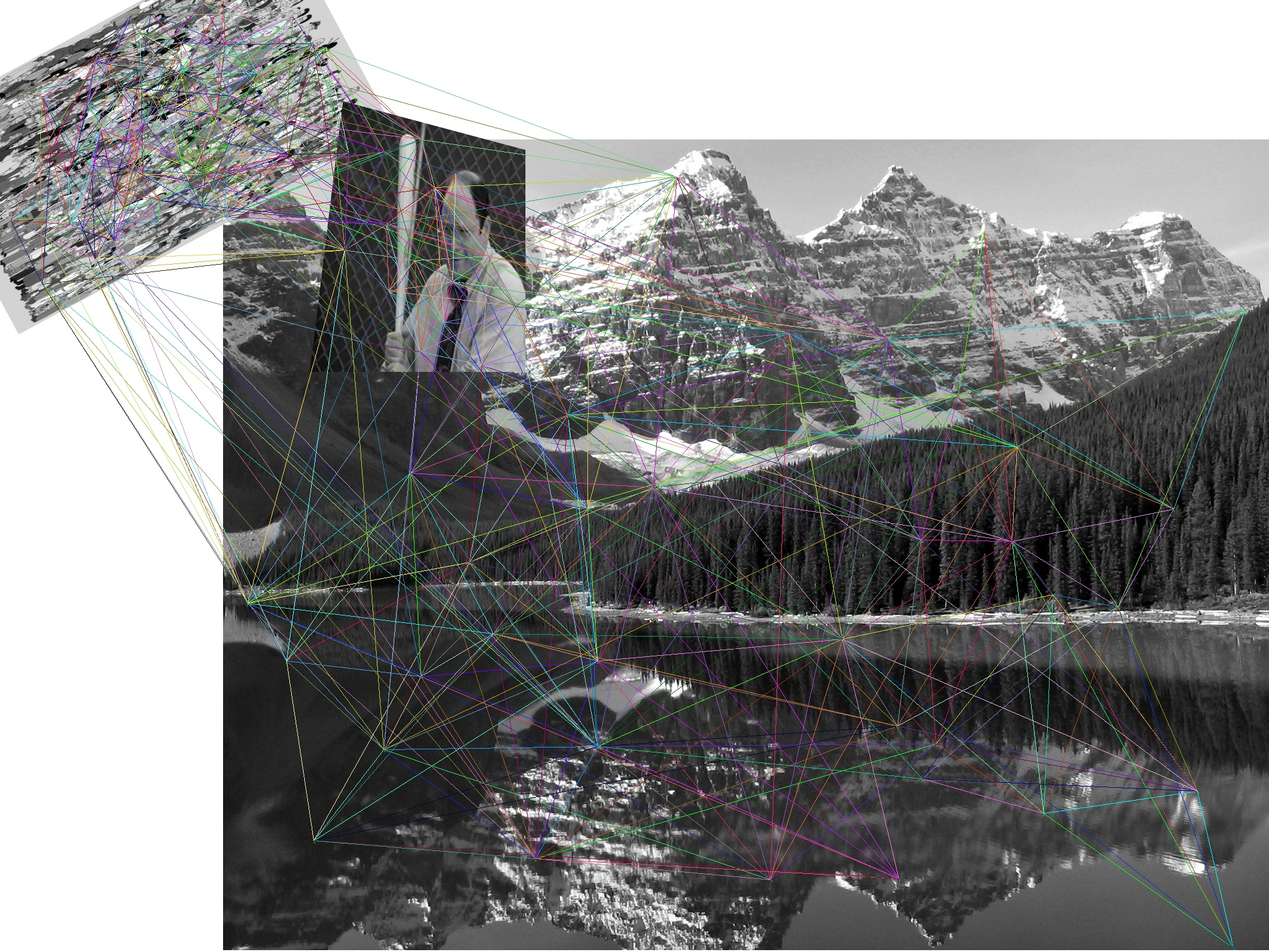
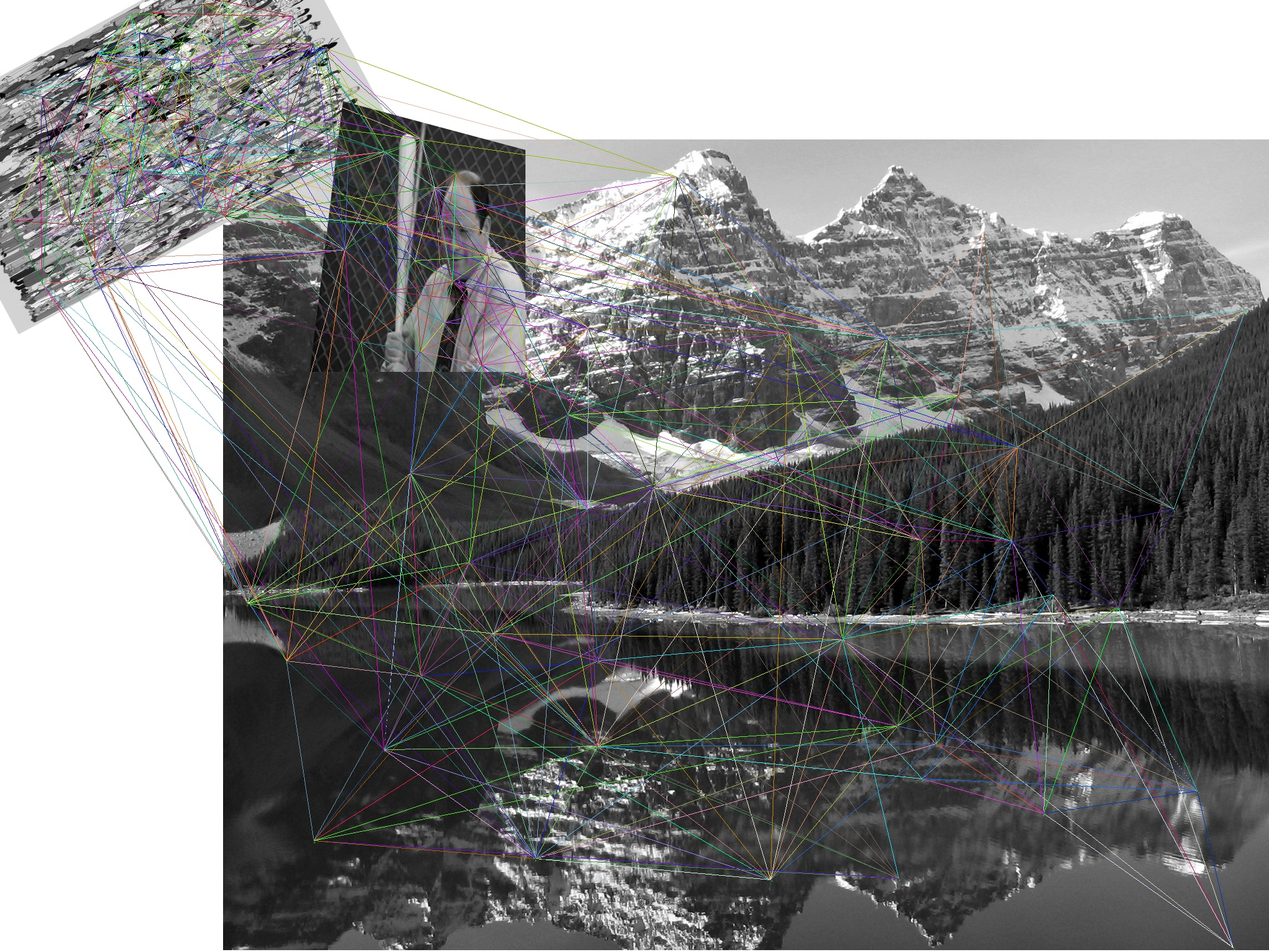
we can now compare matches showmatchs()

diff --git a/testForTheGetMinimum.py b/testForTheGetMinimum.py
@@ -10,6 +10,7 @@ from PIL import Image
 import imagehash as ih
 from random import randint
 import redis
+import json
 #######################################################################
 
 #SHAPES
@@ -94,6 +95,15 @@ def area(a, b, c):
 	# calculate the area
 	area = (s*(s-a)*(s-b)*(s-c)) ** 0.5
 	return area
+
+def getArea(tri):
+	pt1 = tri[0]
+	pt2 = tri[1]
+	pt3 = tri[2]
+	dist1 = dist(pt1, pt2)
+	dist2 = dist(pt2, pt3)
+	dist3 = dist(pt3, pt1)
+	return	area(dist1, dist2, dist3)
 
 def isGoodFrag(tri):
 	pt1 = tri[0]
@@ -278,8 +288,25 @@ def weNeedToAdd180(rot, shape):
 	else: 
 		return False
 
+def getTheJsonString(imgName, hash1, area, tri):
+	xCoords = []
+	yCoords = []
+	for coord in tri:
+		xCoords.append(str(coord[0]))
+		yCoords.append(str(coord[1]))
+
+	tempString =  '{ "imageName" : "'+imgName+\
+				'", "hash":"' + str(hash1) + \
+				'", "area":'+ str(area) + \
+				', "xcoords":"'+json.dumps(xCoords).replace('"', "'")+\
+				'", "ycoords":"'+json.dumps(yCoords).replace('"', "'")+\
+				'" }'
+
+	return tempString 
 
 def handleFragment(shape, frag, rangeInput, imgName):
+	inShape = shape
+	area = getArea(inShape)
 	##########draw the frag with lines########
 	##########################################
 		
@@ -300,6 +327,7 @@ def handleFragment(shape, frag, rangeInput, imgName):
 	########################################
 	backUpRet = ret
 	backUpShape = resShape
+	finalfinalret = []
 	for minRot in minRots:
 		ret = backUpRet
 		resShape = backUpShape
@@ -315,25 +343,127 @@ def handleFragment(shape, frag, rangeInput, imgName):
 		#print tempName1 + " : " + str(minRot)
 		cv2.imwrite("temp2.jpg", newRet);
 		hash1 = ih.average_hash(Image.open('temp2.jpg'))
-		print hash1
+		final3 = getTheJsonString(imgName, hash1, area, inShape)
+		finalfinalret.append( (str(hash1),final3, inShape) )
 		#ret = d.drawShapeWithAllTheDistances_withBaseImage(ret, resShape, (255,0,0))
 		#cv2.imwrite("./output/debug_output_"+ imgName +str(minRot)+".jpg", ret);
+	return finalfinalret
 
 def newTest2(imgName):
 	rangeInput = [(0.,359.0), (1.,8.)]
 	img = cv2.imread("./input/"+imgName+".jpg")
 	
+	finalret = []
 	for shape, ret in getTheFragments(imgName):
-		handleFragment(shape, ret, rangeInput, imgName)
-	######################################### 	
+		finalret.append( handleFragment(shape, ret, rangeInput, imgName) )
 
+	return finalret
+	######################################### 	
 
 def testingGettingTheLocalMinimum():
 	pass
+
+
+def fill(imgName):
+	values = newTest2(imgName)
+
+	r = redis.StrictRedis(host='localhost', port=6379, db=0)
+
+	for val in values:
+		r.set(val[0][0], val[0][1])
+
+	print "added: "+ str(len(values))
+
+def match(imgName):
+	final = match_without_print(imgName)
+	print "found: "+ str(len(final))
+	for val in final:
+		print val
+
+def getTheJsonObj(thehash, redisVar):
+	tempString = redisVar.get(thehash)
+	if tempString == None:
+		return None
+
+	tempString = tempString.replace("'", "\\\"")
+	jsonObj = json.loads(tempString)
+	xCoords = jsonObj['xcoords']
+	yCoords = jsonObj['ycoords']
+
+	xCoords = json.loads(xCoords)
+	yCoords = json.loads(yCoords)
+
+	finCoords = []
+	for i in range(len(xCoords)):
+		c = (int(xCoords[i]), int(yCoords[i]))
+		finCoords.append( c )
+
+	jsonObj['coords'] = finCoords
+
+	return jsonObj
+
+def match_without_print(imgName):
+	inputImageValues = newTest2(imgName)
+
+	r = redis.StrictRedis(host='localhost', port=6379, db=0)
+	
+	matchedValues = []
+	for val in inputImageValues:
+		theJsonObj = getTheJsonObj(val[0][0], r)
+		if theJsonObj != None:
+			matchedValues.append( theJsonObj)
+
+	return matchedValues, inputImageValues
+
+def showMatches(imgName):
+	matchedValues, inputImageValues = match_without_print(imgName)
+
+	print inputImageValues[0][0][2]
+
+	img = cv2.imread("./input/"+imgName+".jpg")
+	#take the first image name and load it 
+	matchedImg = cv2.imread("./input/"+matchedValues[0]['imageName']+".jpg")
+	for matchedObj in matchedValues:
+		#print "obj"
+		#print obj
+		matchedCoords = matchedObj['coords']
+		col = (randint(0,255),randint(0,255),randint(0,255))
+		d.drawLinesColourAlsoWidth(matchedCoords, matchedImg, col, 1)
+		cv2.imshow('input', img)
+		cv2.imshow('found', matchedImg)
+		cv2.waitKey(0)
+
+def showMatches2(imgName):
+	inputImageValues = newTest2(imgName)
+
+	r = redis.StrictRedis(host='localhost', port=6379, db=0)
+	inImg = cv2.imread("./input/"+imgName+".jpg")
+
+	#take the first image name and load it 
+	inhash = inputImageValues[0][0][0]
+	theMatchedJsonObj_g = getTheJsonObj(inhash, r)
+	matchedImg = cv2.imread("./input/"+theMatchedJsonObj_g['imageName']+".jpg")
+
+	for inputImageVal in inputImageValues:
+		inhash = inputImageVal[0][0]
+		inCoords = inputImageVal[0][2]
+		theMatchedJsonObj = getTheJsonObj(inhash, r)
+		if theMatchedJsonObj == None:
+			print "one tri didn't match"
+			continue
+
+		matchedCoords = theMatchedJsonObj['coords']
+		col = (randint(0,255),randint(0,255),randint(0,255))
+		d.drawLinesColourAlsoWidth(matchedCoords, matchedImg, col, 1)
+		d.drawLinesColourAlsoWidth(inCoords, inImg, col, 1)
+		cv2.imshow('input', inImg)
+		cv2.imshow('found', matchedImg)
+		cv2.waitKey(0)
+
 
 
 #newTest2("extreme")
 #newTest2("testImage1")
 #newTest2("testImage2")
 
-newTest2("dots")
+showMatches2("dots")
